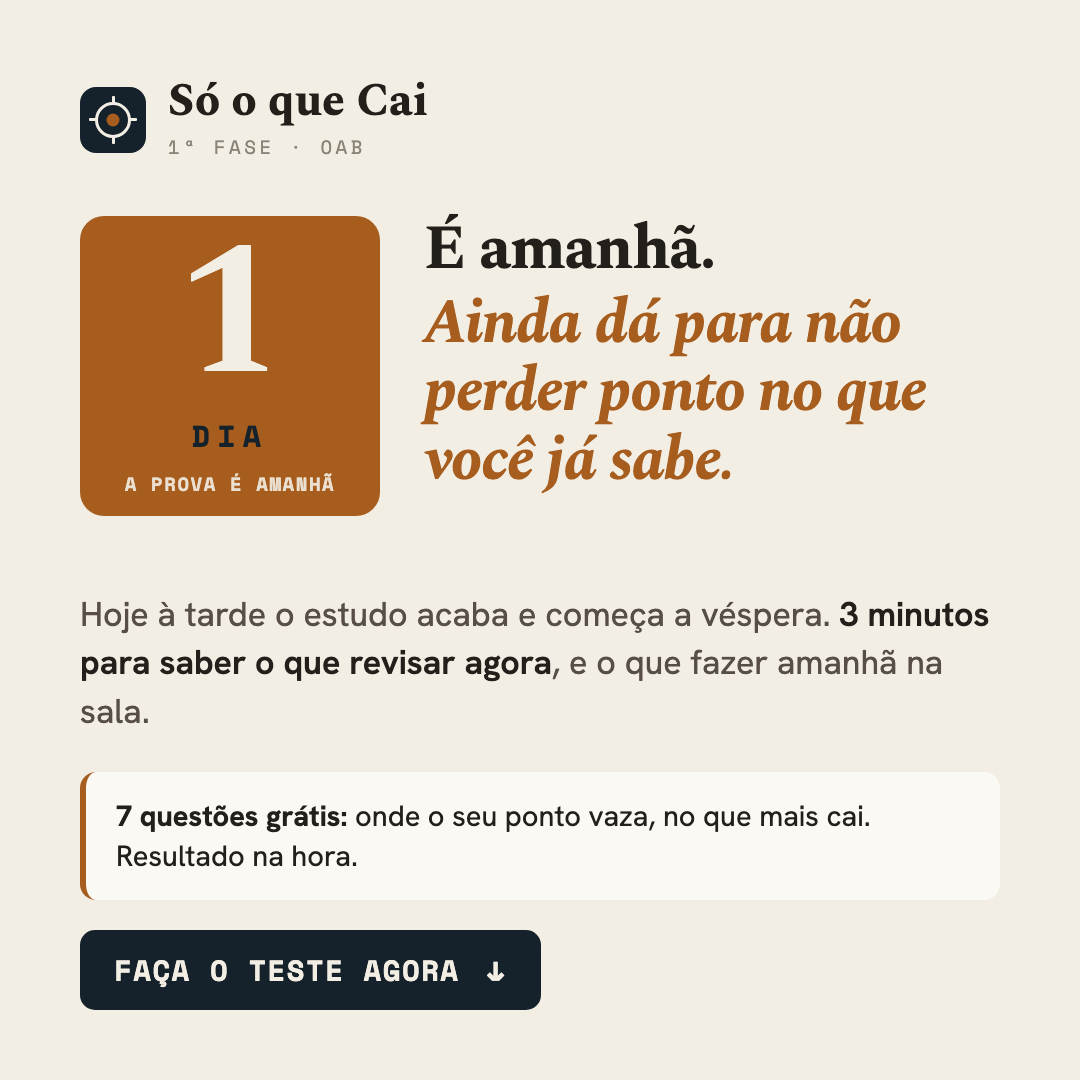
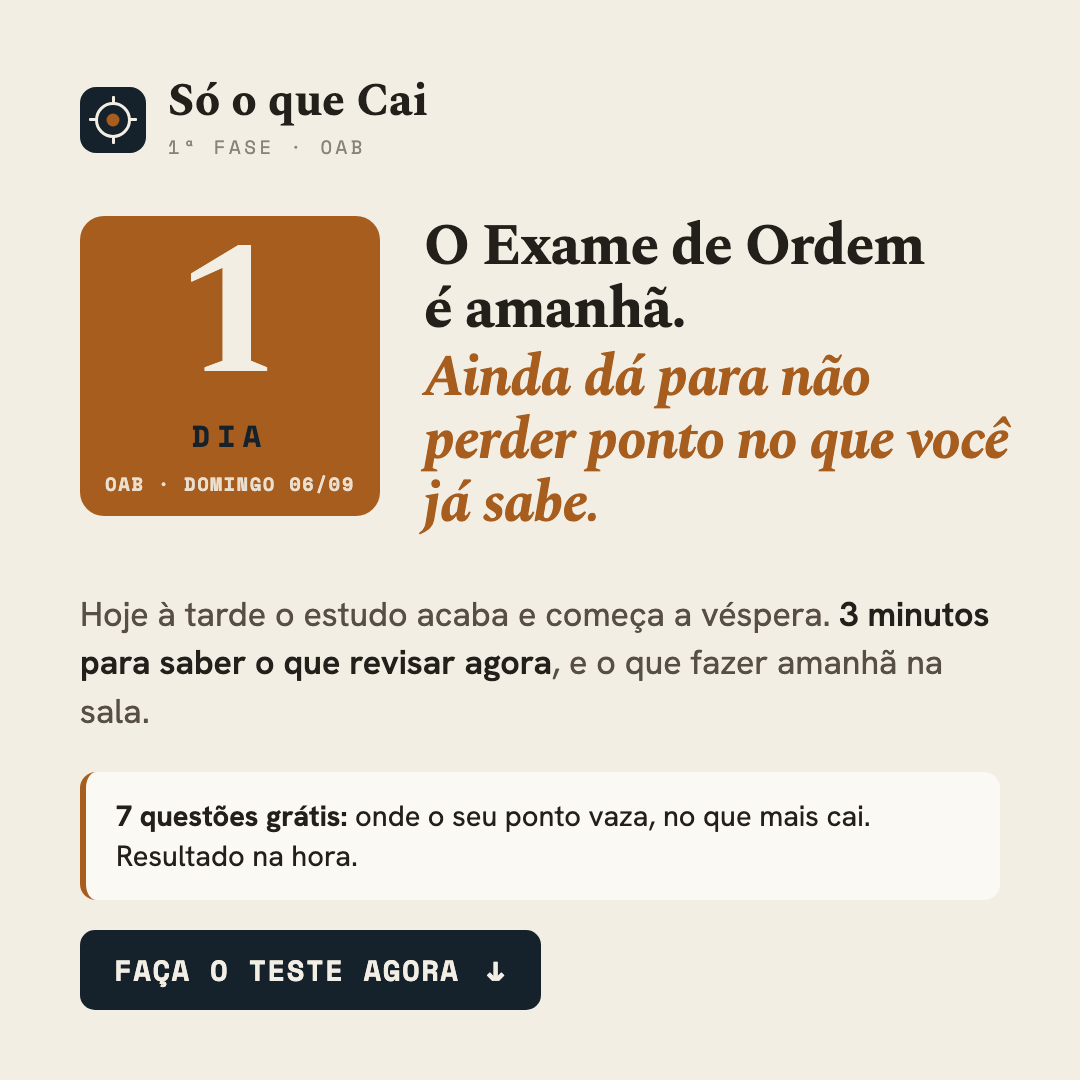
Criativos 2 dias e 1 dia: a manchete nomeia o Exame de Ordem
As duas artes só diziam "OAB" na assinatura pequena da marca, e "a 1ª fase"
sem dizer de quê. Para público frio isso não identifica a prova, e a lição já
estava registrada em agosto (P2: a manchete nomeia o exame no corpo grande).
Agora o Exame de Ordem está na manchete e o OAB na caixa do prazo.

Changed region(s): [[0.3972, 0.1833, 0.9472, 0.4889], [0.0917, 0.4278, 0.3361, 0.4583]]

diff --git a/criativos/minidiag-2-dias-7q.html b/criativos/minidiag-2-dias-7q.html
@@ -12,7 +12,6 @@
 
   Render: criativos/render.sh minidiag-2-dias-7q.html (Chrome headless, 1080x1080).
 -->
-<meta charset="utf-8">
 <style>
   @import url('https://fonts.googleapis.com/css2?family=Spectral:ital,wght@0,600;0,700;1,600;1,700&family=Hanken+Grotesk:wght@400;500;600;700&family=Space+Mono:wght@400;700&display=swap');
   :root{--paper:#F3EEE4;--card:#FBF9F4;--ink:#231F1A;--muted2:#574F45;--muted:#8A8378;
@@ -43,7 +42,7 @@
             letter-spacing:.08em;margin-top:12px;opacity:.85}
 
   .h{position:absolute;left:424px;top:216px;width:590px;font-family:'Spectral',Georgia,serif;font-weight:700;
-     font-size:62px;line-height:1.1;color:var(--ink);letter-spacing:-.02em}
+     font-size:58px;line-height:1.08;color:var(--ink);letter-spacing:-.02em}
   .h em{font-style:italic;color:var(--ocre);display:block;margin-top:6px}
 
   .linhas{position:absolute;left:80px;top:590px;width:920px;font-size:34px;line-height:1.42;color:var(--muted2)}
@@ -68,10 +67,10 @@
   <div class="prazo">
     <div class="n">2</div>
     <div class="u">DIAS</div>
-    <div class="d">PROVA DOMINGO, 06/09</div>
+    <div class="d">OAB · DOMINGO 06/09</div>
   </div>
 
-  <div class="h">Deixou para<br>a última hora?<em>Você tem até amanhã à tarde.</em></div>
+  <div class="h">Deixou o Exame<br>de Ordem para<br>a última hora?<em>Você tem até<br>amanhã à tarde.</em></div>
 
   <div class="linhas">
     Depois disso, nada mais entra inteiro. E <b>cada hora que for<br>

diff --git a/criativos/minidiag-1-dia-7q.html b/criativos/minidiag-1-dia-7q.html
@@ -40,7 +40,7 @@
             letter-spacing:.08em;margin-top:12px;opacity:.9}
 
   .h{position:absolute;left:424px;top:216px;width:590px;font-family:'Spectral',Georgia,serif;font-weight:700;
-     font-size:62px;line-height:1.1;color:var(--ink);letter-spacing:-.02em}
+     font-size:58px;line-height:1.08;color:var(--ink);letter-spacing:-.02em}
   .h em{font-style:italic;color:var(--ocre);display:block;margin-top:6px}
 
   .linhas{position:absolute;left:80px;top:590px;width:920px;font-size:34px;line-height:1.42;color:var(--muted2)}
@@ -65,10 +65,10 @@
   <div class="prazo">
     <div class="n">1</div>
     <div class="u">DIA</div>
-    <div class="d">A PROVA É AMANHÃ</div>
+    <div class="d">OAB · DOMINGO 06/09</div>
   </div>
 
-  <div class="h">É amanhã.<em>Ainda dá para não perder ponto no que você já sabe.</em></div>
+  <div class="h">O Exame de Ordem<br>é amanhã.<em>Ainda dá para não perder ponto no que você já sabe.</em></div>
 
   <div class="linhas">
     Hoje à tarde o estudo acaba e começa a véspera. <b>3 minutos para saber o que revisar agora</b>, e o que fazer amanhã na sala.
